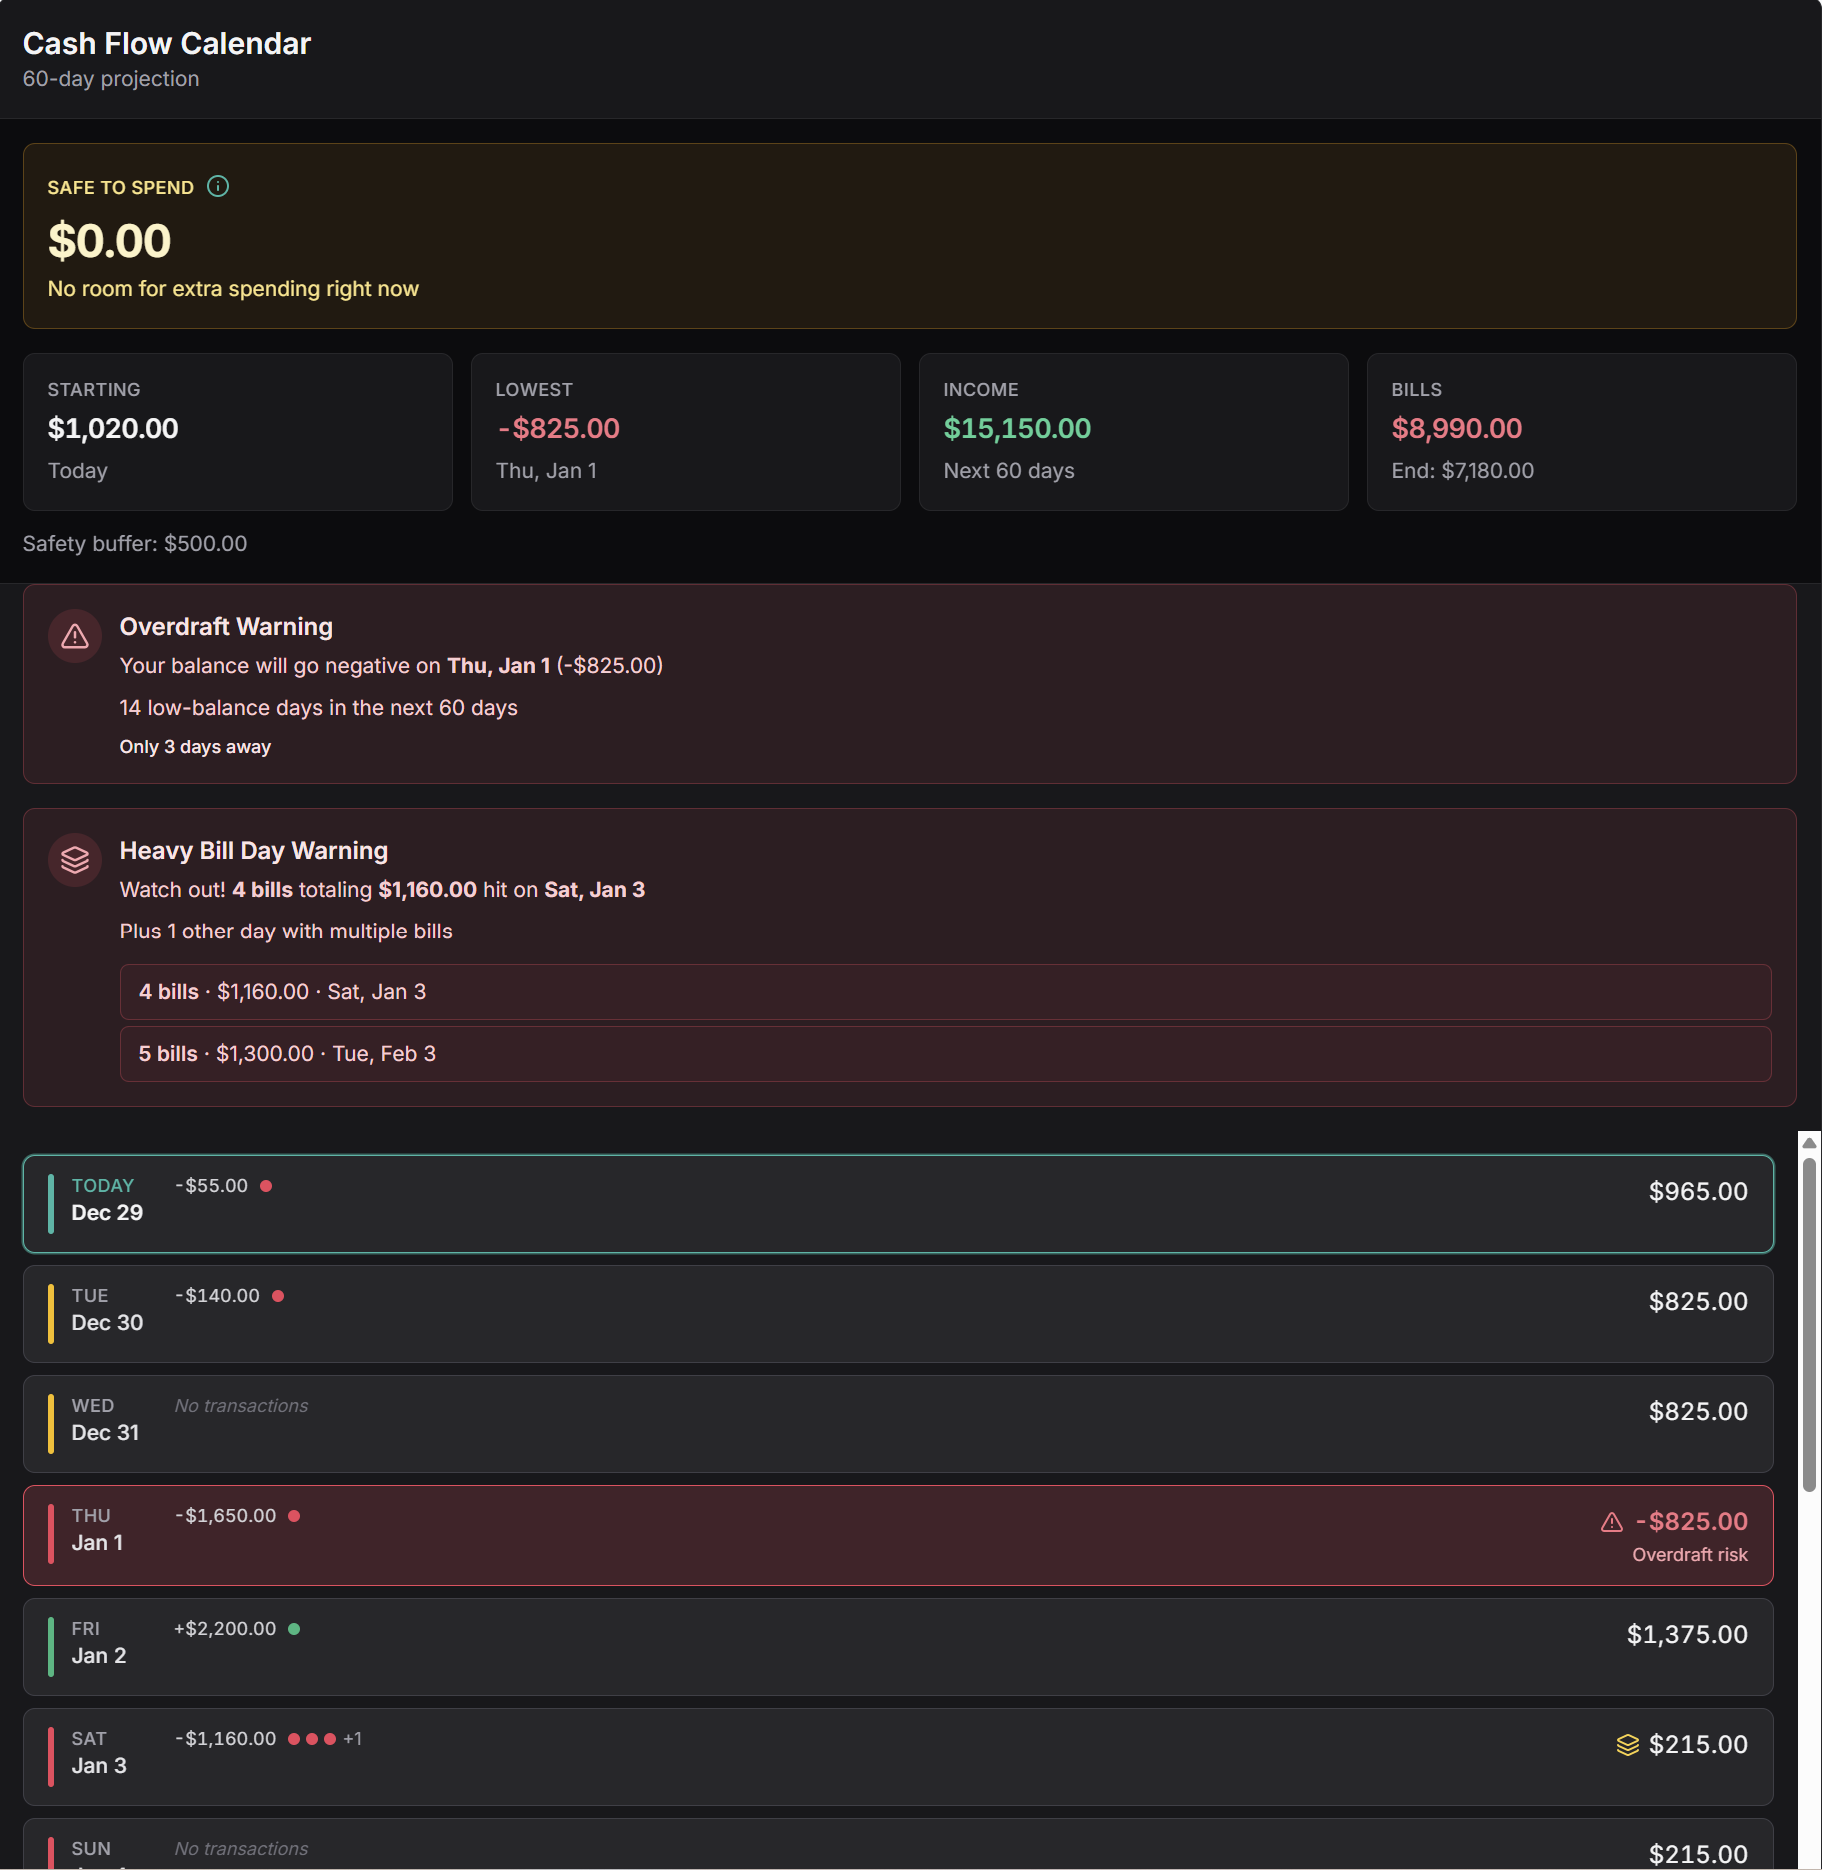
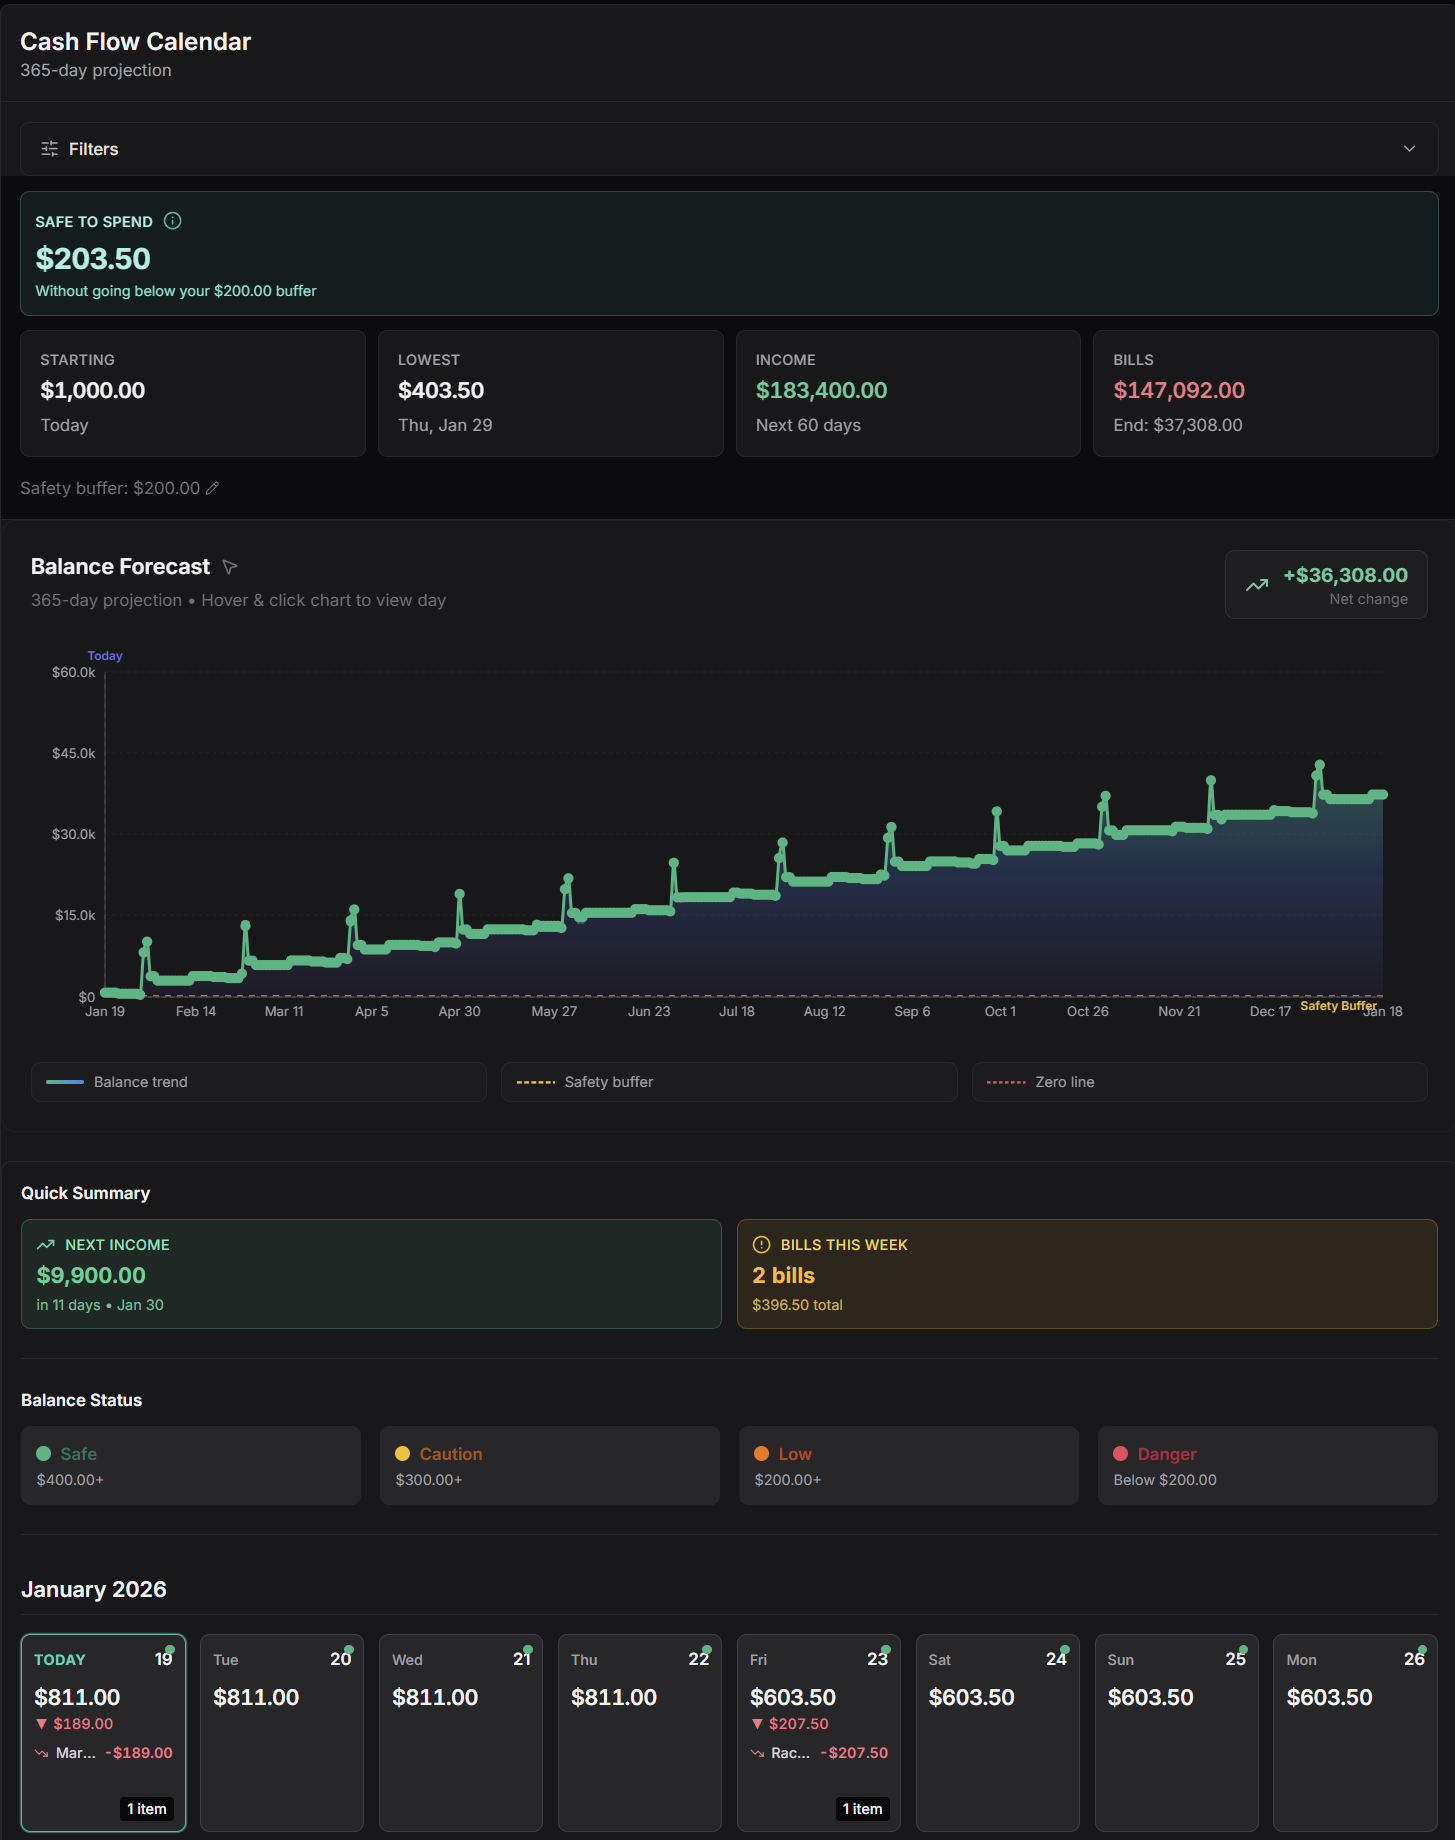
feat: update landing page with new screenshots and features
- Add new screenshots: calendar, invoices, scenario tester, CSV import
- Update hero image to show new polished dark theme
- Replace placeholder UI mockups with real app screenshots
- Update copy to reflect 365-day projection (from 60 days)
- Add mentions of filters and interactive charts
- Update metadata and OpenGraph descriptions

diff --git a/app/page.tsx b/app/page.tsx
@@ -7,7 +7,6 @@ import { FAQSection } from '@/components/landing/faq-section';
 import { GetStartedCTA } from '@/components/landing/get-started-cta';
 import { LandingFooter } from '@/components/landing/footer';
 import {
-  AlarmClock,
   BadgeDollarSign,
   Bell,
   Calendar,
@@ -31,7 +30,7 @@ import { getUserSubscription } from '@/lib/stripe/subscription';
 export const metadata: Metadata = {
   title: 'Cash Flow Calendar for Freelancers | Cash Flow Forecaster',
   description:
-    'A cash flow calendar app for freelancers with irregular income—see your bank balance 60 days ahead with bill alerts and simple scenarios.',
+    'A cash flow calendar app for freelancers with irregular income—see your bank balance up to 365 days ahead with interactive charts, filters, and bill alerts.',
   keywords: [
     'cash flow calendar',
     'cash flow calendar app',
@@ -64,7 +63,7 @@ export const metadata: Metadata = {
   openGraph: {
     title: 'Cash Flow Calendar for Freelancers | Cash Flow Forecaster',
     description:
-      'A cash flow calendar app for freelancers with irregular income—see your bank balance 60 days ahead with bill alerts and simple scenarios.',
+      'A cash flow calendar app for freelancers with irregular income—see your bank balance up to 365 days ahead with interactive charts, filters, and bill alerts.',
     url: 'https://cashflowforecaster.io',
     siteName: 'Cash Flow Forecaster',
     type: 'website',
@@ -73,7 +72,7 @@ export const metadata: Metadata = {
     card: 'summary_large_image',
     title: 'Cash Flow Calendar for Freelancers | Cash Flow Forecaster',
     description:
-      'A cash flow calendar app for freelancers with irregular income—see your bank balance 60 days ahead with bill alerts and simple scenarios.',
+      'A cash flow calendar app for freelancers with irregular income—see your bank balance up to 365 days ahead with interactive charts, filters, and bill alerts.',
   },
 };
 
@@ -174,7 +173,7 @@ export default async function Home({ searchParams }: HomeProps) {
             </h1>
 
             <p className="mt-5 text-lg text-zinc-300 max-w-2xl mx-auto leading-relaxed">
-              Your personal cash flow calendar for the next 60 days — with every invoice, bill, payday, and tax savings mapped out.
+              Your personal cash flow calendar for up to 365 days — with interactive charts, smart filters, and every invoice, bill, and payday mapped out.
               Built for freelancers with irregular income.
             </p>
 
@@ -228,7 +227,7 @@ export default async function Home({ searchParams }: HomeProps) {
             <div className="text-center">
               <h2 className="text-3xl md:text-4xl font-semibold text-white tracking-tight">How it works</h2>
               <p className="mt-3 text-zinc-400 max-w-2xl mx-auto">
-                A simple 4-step flow to get clarity on what&apos;s safe to spend—today and 60 days from now.
+                A simple 4-step flow to get clarity on what&apos;s safe to spend—today and up to a year from now.
               </p>
             </div>
 
@@ -277,7 +276,7 @@ export default async function Home({ searchParams }: HomeProps) {
                   </div>
                 </div>
                 <h3 className="mt-4 font-semibold text-white">See Your Future</h3>
-                <p className="mt-2 text-zinc-400">Get a 60-day cash flow calendar projection with low days highlighted.</p>
+                <p className="mt-2 text-zinc-400">Get up to a 365-day projection with interactive charts and filters.</p>
               </div>
 
               <div className="rounded-2xl border border-zinc-800 bg-zinc-900/50 p-6">
@@ -322,21 +321,21 @@ export default async function Home({ searchParams }: HomeProps) {
 
                   <p className="mt-4 text-zinc-300 leading-relaxed">
                     See your &quot;safe to spend&quot; amount right now — based on what&apos;s coming in and going out over the
-                    next 60 days in your cash flow calendar. No more checking your bank app ten times a day.
+                    next 365 days in your cash flow calendar. No more checking your bank app ten times a day.
                   </p>
 
                   <ul className="mt-6 space-y-3 text-sm text-zinc-300">
                     <li className="flex items-start gap-2">
                       <CheckCircle2 className="h-4 w-4 text-teal-300 mt-0.5" />
-                      <span>Daily balance projections</span>
+                      <span>Interactive balance forecast chart</span>
                     </li>
                     <li className="flex items-start gap-2">
                       <CheckCircle2 className="h-4 w-4 text-teal-300 mt-0.5" />
-                      <span>Color-coded low-balance warnings</span>
+                      <span>Color-coded balance status indicators</span>
                     </li>
                     <li className="flex items-start gap-2">
                       <CheckCircle2 className="h-4 w-4 text-teal-300 mt-0.5" />
-                      <span>Overdraft alerts before they happen</span>
+                      <span>Filter by accounts, categories & date range</span>
                     </li>
                   </ul>
                 </div>
@@ -346,11 +345,11 @@ export default async function Home({ searchParams }: HomeProps) {
                     <span className="h-3 w-3 rounded-full bg-red-500" />
                     <span className="h-3 w-3 rounded-full bg-yellow-500" />
                     <span className="h-3 w-3 rounded-full bg-green-500" />
-                    <span className="ml-2 text-xs text-zinc-400">60-day forecast</span>
+                    <span className="ml-2 text-xs text-zinc-400">365-day forecast</span>
                   </div>
                   <Image
-                    src="/hero-dashboard.png"
-                    alt="60-day calendar preview"
+                    src="/screenshot-calendar.png"
+                    alt="Cash flow calendar with interactive chart and balance forecast"
                     width={1600}
                     height={900}
                     sizes="(max-width: 1024px) 100vw, 560px"
@@ -395,29 +394,21 @@ export default async function Home({ searchParams }: HomeProps) {
                   </ul>
                 </div>
 
-                <div className="lg:order-1 rounded-2xl border border-zinc-800 bg-zinc-900/40 p-6">
-                  <div className="flex items-center justify-between">
-                    <span className="text-sm text-zinc-300">Invoice #1042</span>
-                    <span className="text-sm font-semibold text-white">$1,250</span>
+                <div className="lg:order-1 rounded-2xl border border-zinc-800 bg-zinc-900/40 overflow-hidden shadow-2xl">
+                  <div className="flex items-center gap-2 px-4 py-3 border-b border-zinc-800 bg-zinc-950/40">
+                    <span className="h-3 w-3 rounded-full bg-red-500" />
+                    <span className="h-3 w-3 rounded-full bg-yellow-500" />
+                    <span className="h-3 w-3 rounded-full bg-green-500" />
+                    <span className="ml-2 text-xs text-zinc-400">Invoice management</span>
                   </div>
-                  <div className="mt-3 space-y-2">
-                    <div className="h-2 rounded bg-zinc-800" />
-                    <div className="h-2 rounded bg-zinc-800 w-5/6" />
-                    <div className="h-2 rounded bg-zinc-800 w-3/4" />
-                  </div>
-                  <div className="mt-5 inline-flex items-center gap-2 rounded-full bg-zinc-950/40 border border-zinc-800 px-3 py-1 text-xs text-zinc-300">
-                    <AlarmClock className="h-3.5 w-3.5 text-teal-300" />
-                    Scheduled reminders included
-                  </div>
-                  <div className="mt-6 rounded-xl border border-zinc-800 bg-zinc-950/40 p-4">
-                    <div className="flex items-start gap-2 text-sm">
-                      <Bell className="h-4 w-4 text-amber-300 mt-0.5" />
-                      <div className="text-zinc-300">
-                        <p className="font-medium text-zinc-200">Reminder scheduled</p>
-                        <p className="text-zinc-400">Auto-follow up in 3 days if unpaid.</p>
-                      </div>
-                    </div>
-                  </div>
+                  <Image
+                    src="/screenshot-invoices.png"
+                    alt="Invoice dashboard with status tracking and PDF downloads"
+                    width={1600}
+                    height={900}
+                    sizes="(max-width: 1024px) 100vw, 560px"
+                    className="w-full h-auto"
+                  />
                 </div>
               </div>
 
@@ -585,20 +576,17 @@ export default async function Home({ searchParams }: HomeProps) {
                     </div>
                     <h4 className="mt-4 font-semibold text-white">Can I Afford It?</h4>
                     <p className="mt-2 text-zinc-400">
-                      Try a purchase, bill, or income change and instantly see how it affects your next 60 days.
+                      Test a hypothetical expense and instantly see how it affects your cash flow forecast.
                     </p>
-                    <div className="mt-5 rounded-xl border border-zinc-800 bg-zinc-950/40 p-4">
-                      <div className="flex items-center justify-between text-sm">
-                        <span className="text-zinc-300">New expense</span>
-                        <span className="font-semibold text-white">$250</span>
-                      </div>
-                      <div className="mt-3 h-2 rounded-full bg-zinc-800 overflow-hidden">
-                        <div className="h-full w-[72%] bg-teal-500" />
-                      </div>
-                      <div className="mt-4 flex items-start gap-2 text-sm">
-                        <CheckCircle2 className="h-4 w-4 text-teal-400 mt-0.5" />
-                        <p className="text-zinc-300">Result: you stay above your buffer for the next 30 days.</p>
-                      </div>
+                    <div className="mt-5 rounded-xl border border-zinc-800 bg-zinc-950/40 overflow-hidden">
+                      <Image
+                        src="/screenshot-scenario.png"
+                        alt="Can I Afford It scenario tester"
+                        width={800}
+                        height={600}
+                        sizes="(max-width: 768px) 100vw, 400px"
+                        className="w-full h-auto"
+                      />
                     </div>
                   </div>
 
@@ -615,22 +603,15 @@ export default async function Home({ searchParams }: HomeProps) {
                     <p className="mt-2 text-zinc-400">
                       Upload a CSV export and quickly add bills &amp; income—no manual entry required.
                     </p>
-                    <div className="mt-5 rounded-xl border border-zinc-800 bg-zinc-950/40 p-4">
-                      <div className="flex items-center justify-between gap-3">
-                        <div className="flex items-center gap-3 min-w-0">
-                          <div className="h-9 w-9 rounded-lg bg-teal-500/10 ring-1 ring-teal-500/20 flex items-center justify-center flex-shrink-0">
-                            <FileSpreadsheet className="h-4 w-4 text-teal-300" />
-                          </div>
-                          <div className="min-w-0">
-                            <p className="text-sm font-medium text-zinc-200 truncate">transactions.csv</p>
-                            <p className="text-xs text-zinc-500">Uploaded</p>
-                          </div>
-                        </div>
-                        <div className="inline-flex items-center gap-2 rounded-full bg-zinc-900/60 border border-zinc-800 px-3 py-1 text-xs text-zinc-300 flex-shrink-0">
-                          <CheckCircle2 className="h-3.5 w-3.5 text-teal-300" />
-                          24 transactions found
-                        </div>
-                      </div>
+                    <div className="mt-5 rounded-xl border border-zinc-800 bg-zinc-950/40 overflow-hidden">
+                      <Image
+                        src="/screenshot-import.png"
+                        alt="CSV import wizard with 3-step process"
+                        width={800}
+                        height={600}
+                        sizes="(max-width: 768px) 100vw, 400px"
+                        className="w-full h-auto"
+                      />
                     </div>
                   </div>
                 </div>
